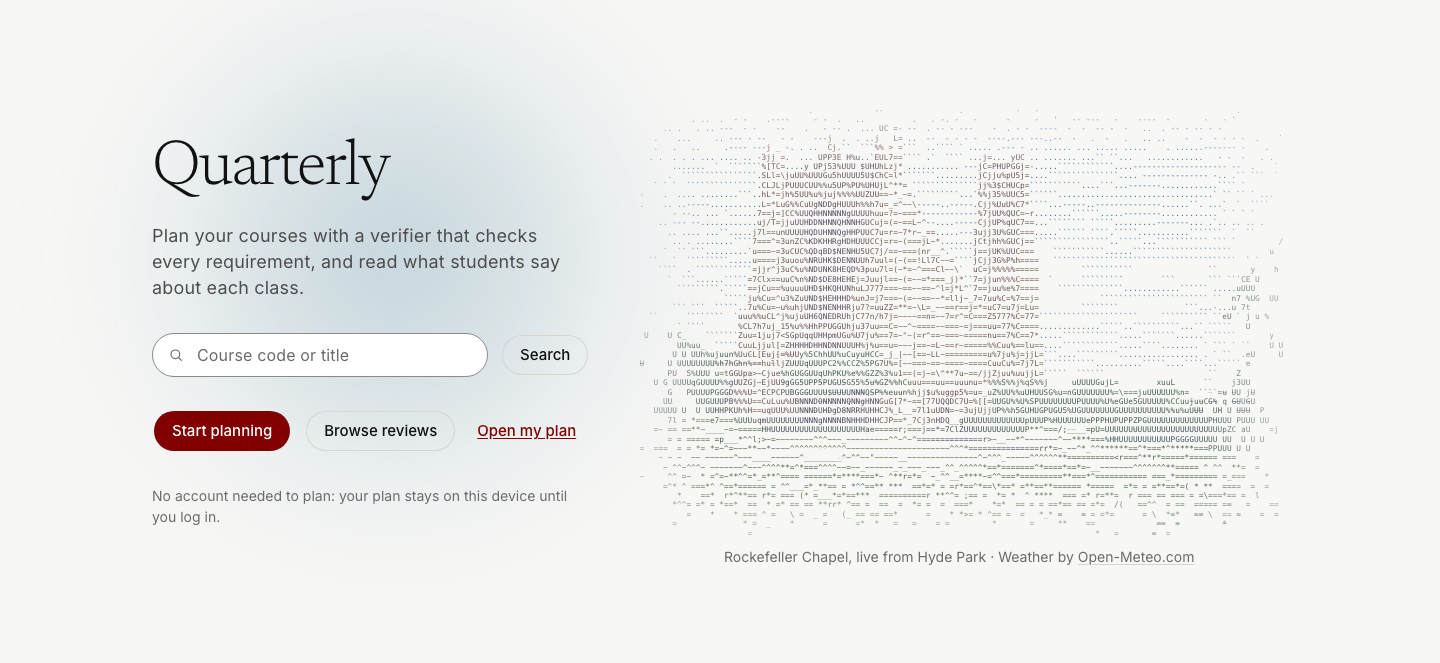
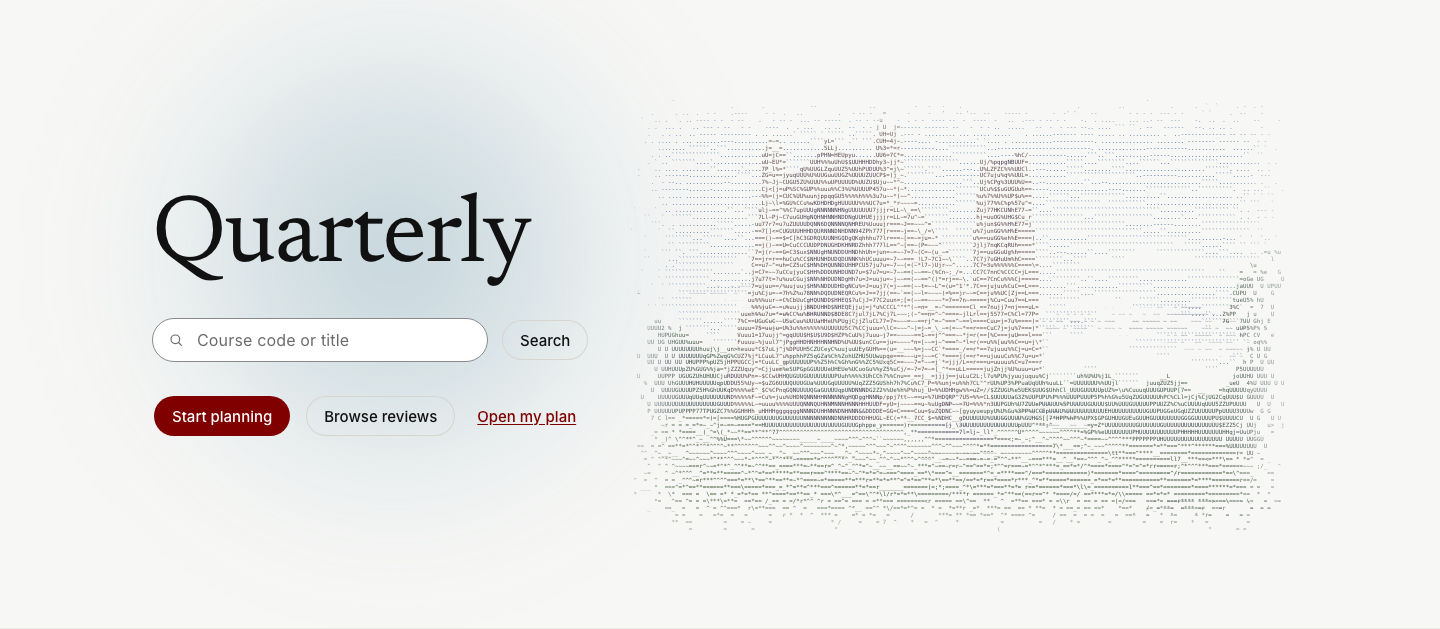
D7 (bolder): a more solid chapel: the finest level (190 characters across at desktop), darker ink, more contrast and colour, a softer edge fade; scene screenshots refreshed
Claude-Session: https://claude.ai/code/session_012Lzq1nWCVQjg7EcP65TFAu

diff --git a/quadplan-kit/apps/web/src/features/home/ChapelScene.tsx b/quadplan-kit/apps/web/src/features/home/ChapelScene.tsx
@@ -24,8 +24,10 @@ function loadScene(): void {
 const sceneStyle = {
   "--ascii-paper": "var(--color-canvas)",
   "--ascii-ink": "var(--color-ink)",
-  "--ascii-ink-mix": "0.14",
-  "--ascii-saturation": "0.85",
+  // D7 (FEEDBACK "Minor design changes"): a more solid drawing, with darker, fuller characters.
+  "--ascii-ink-mix": "0.06",
+  "--ascii-saturation": "0.95",
+  "--ascii-contrast": "1.3",
 } as CSSProperties;
 
 /**
@@ -53,8 +55,8 @@ export function ChapelScene() {
       <ascii-scene
         src="/ascii-scene/scene.rockefeller.json"
         weather-src="/api/weather"
-        fade="0.18"
-        density="4.6"
+        fade="0.12"
+        density="3.4"
         label="Animated drawing of Rockefeller Chapel in characters, following the time of day and the weather in Hyde Park"
         style={sceneStyle}
       />
